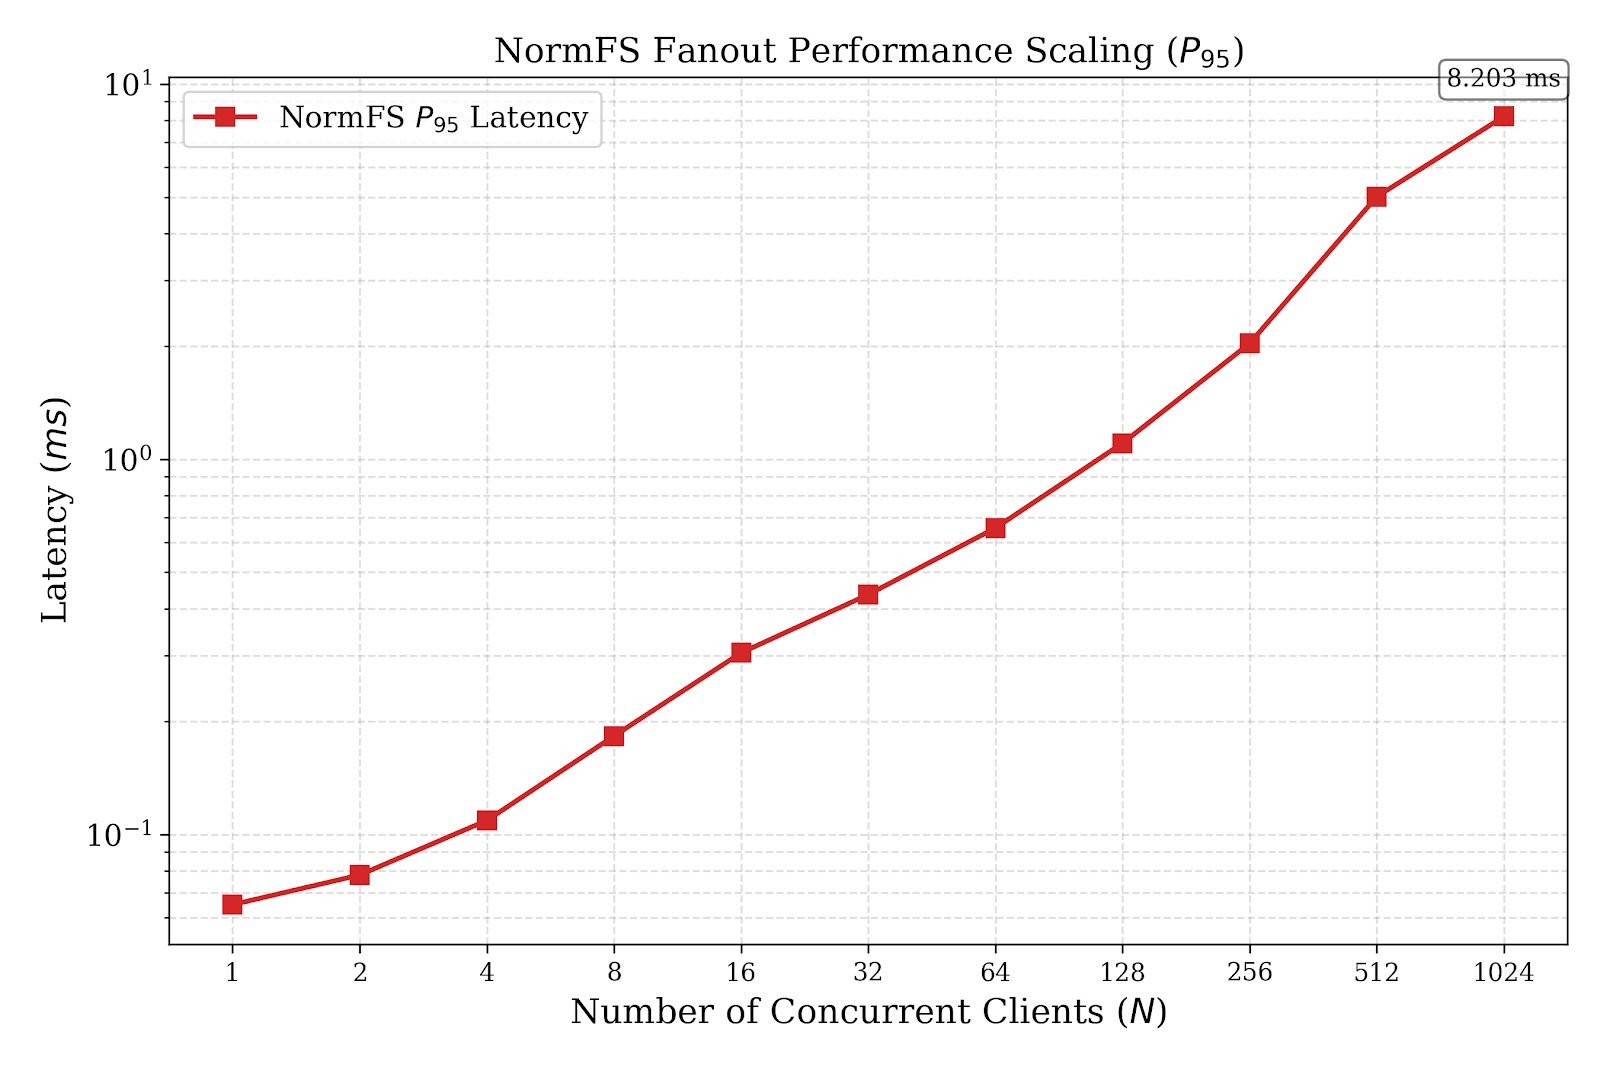
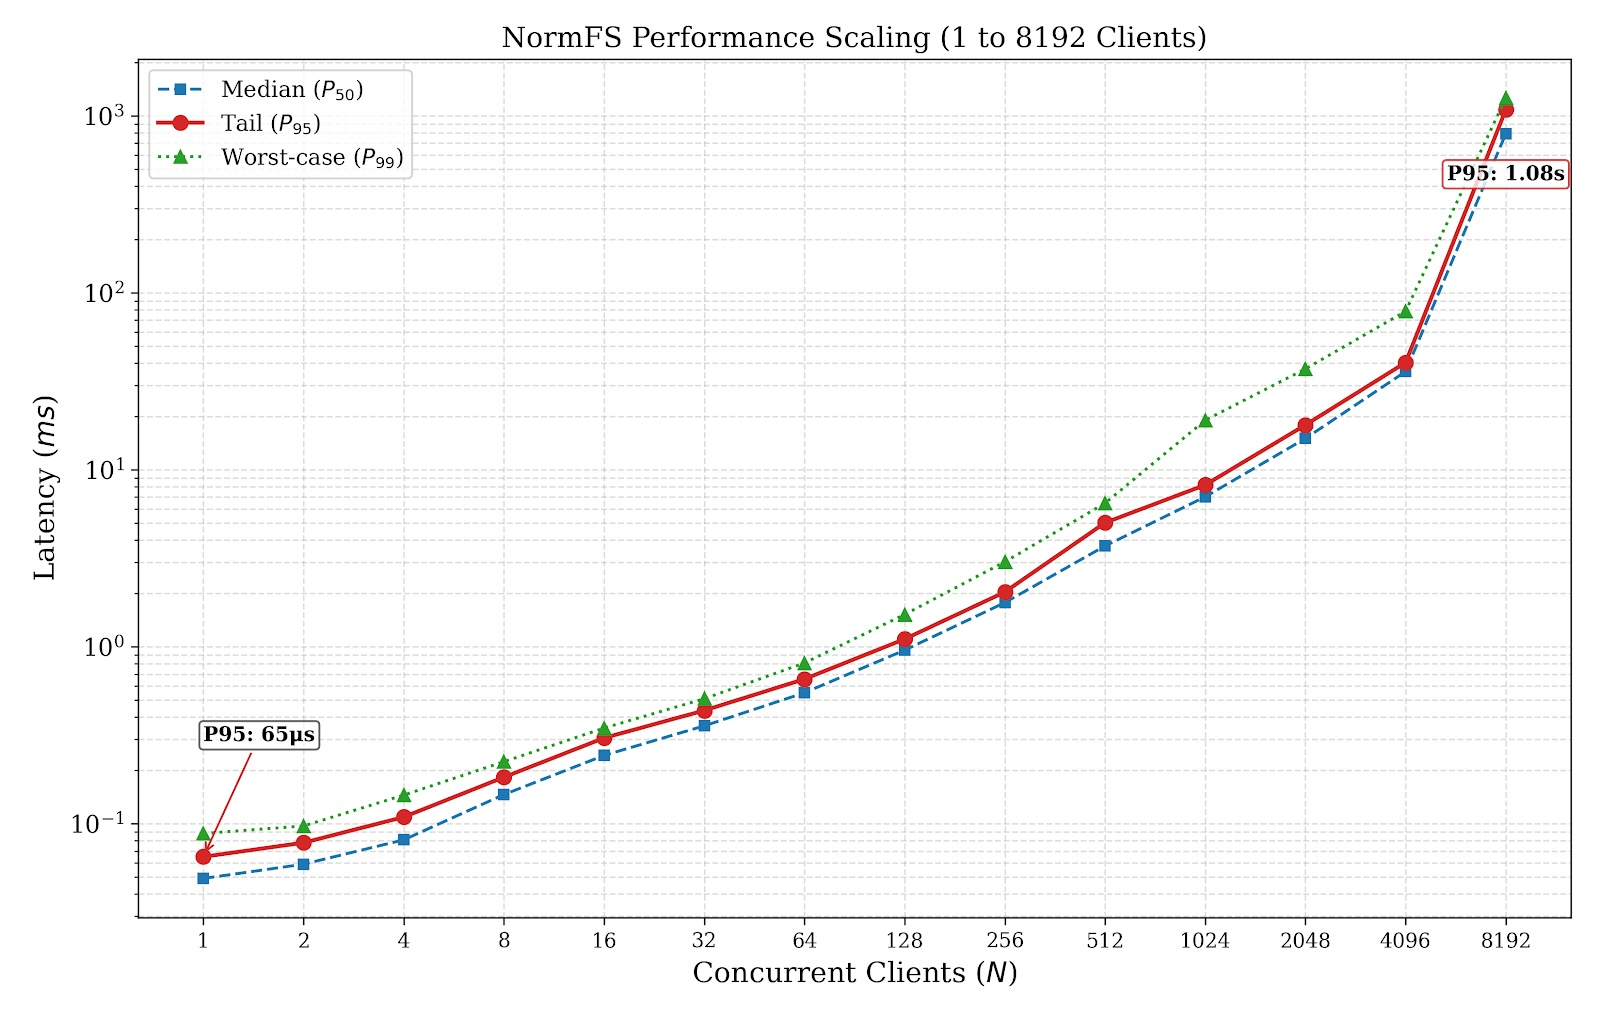
fanout scaling and benchmark results

diff --git a/normfs_go/bench/cmd/benchmark/main.go b/normfs_go/bench/cmd/benchmark/main.go
@@ -5,6 +5,7 @@ import (
 	"fmt"
 	"log/slog"
 	"os"
+	"syscall"
 
 	"github.com/norma-core/normfs/normfs_go/bench"
 )
@@ -16,6 +17,11 @@ func main() {
 	dataSize := flag.Int("size", 1024, "payload size in bytes")
 	queueID := flag.String("queue", "bench/latency", "queue ID to use")
 	flag.Parse()
+
+	if err := setupRLimits(); err != nil {
+		fmt.Printf("Failed to set up for high load: %v\n", err)
+		return
+	}
 
 	logger := slog.New(slog.NewTextHandler(os.Stdout, &slog.HandlerOptions{Level: slog.LevelWarn}))
 
@@ -33,10 +39,40 @@ func main() {
 		testData[i] = byte(i % 256)
 	}
 
+	// Set up defer to print results
+	var result bench.LatencyResult
+	defer func() {
+		if result.TotalOps > 0 {
+			fmt.Printf("\n")
+			bench.PrintLatencyResult(result)
+			fmt.Printf("\n✅ Benchmark complete!\n\n")
+		}
+	}()
+
 	// Run fanout benchmark
 	fmt.Printf("📢 Running fanout benchmark (time until all %d clients see message)...\n", *numClients)
-	result := bench.RunFanoutLatencyBenchmark(*addr, logger, *queueID, *numClients, *iterations, testData)
-	bench.PrintLatencyResult(result)
+	result = bench.RunFanoutLatencyBenchmark(*addr, logger, *queueID, *numClients, *iterations, testData)
+}
 
-	fmt.Printf("\n✅ Benchmark complete!\n\n")
+func setupRLimits() error {
+	var rLimit syscall.Rlimit
+	err := syscall.Getrlimit(syscall.RLIMIT_NOFILE, &rLimit)
+	if err != nil {
+		return err
+	} else {
+		var changed = false
+		if rLimit.Cur < 256000 {
+			rLimit.Cur = 256000
+			changed = true
+		}
+		if rLimit.Max < 256000 {
+			rLimit.Max = 256000
+			changed = true
+		}
+		if !changed {
+			return nil
+		}
+
+		return syscall.Setrlimit(syscall.RLIMIT_NOFILE, &rLimit)
+	}
 }

diff --git a/normfs_go/bench/latency.go b/normfs_go/bench/latency.go
@@ -60,6 +60,31 @@ func RunFanoutLatencyBenchmark(addr string, logger *slog.Logger, queuePath strin
 		log.Fatalf("Failed to create writer client: %v", err)
 	}
 
+	// Progress tracking every 30 seconds
+	stopProgress := make(chan struct{})
+	var completedIters atomic.Int32
+	go func() {
+		ticker := time.NewTicker(30 * time.Second)
+		defer ticker.Stop()
+		for {
+			select {
+			case <-ticker.C:
+				completed := int(completedIters.Load())
+				if completed > 0 {
+					var sum int64
+					for i := 0; i < completed; i++ {
+						sum += latencies[i]
+					}
+					avgLatency := time.Duration(sum / int64(completed))
+					log.Printf("Progress: %d/%d iterations (avg latency: %v)", completed, iterations, avgLatency)
+				}
+			case <-stopProgress:
+				return
+			}
+		}
+	}()
+	defer close(stopProgress)
+
 	for iter := 0; iter < iterations; iter++ {
 		var wg sync.WaitGroup
 		var allSeenTime atomic.Int64
@@ -103,6 +128,7 @@ func RunFanoutLatencyBenchmark(addr string, logger *slog.Logger, queuePath strin
 
 		fanoutLatency := allSeenTime.Load() - writeStart.UnixNano()
 		latencies[iter] = fanoutLatency
+		completedIters.Add(1)
 	}
 
 	totalDuration := time.Duration(0)

diff --git a/README.md b/README.md
@@ -12,21 +12,24 @@ Storage engine with automatic data lifecycle management across memory, disk, and
 
 **Fanout Latency**: Time for a message to propagate from write to all N concurrent subscribers over TCP. Measures the server's ability to efficiently distribute messages to multiple clients simultaneously - critical for real-time multi-sensor coordination in robotics and distributed systems.
 
-**TCP Fanout Benchmarks** (200k iterations, 1KB message):
+**TCP Fanout Benchmarks** (1KB message):
 
-| Clients | Total Fanout | P50 | P95 | P99 |
-|---------|--------------|-----|-----|-----|
-| 1 | 200 MB | 49µs | 65µs | 88µs |
-| 2 | 400 MB | 59µs | 78µs | 97µs |
-| 4 | 800 MB | 81µs | 109µs | 145µs |
-| 8 | 1.6 GB | 146µs | 183µs | 224µs |
-| 16 | 3.2 GB | 243µs | 305µs | 347µs |
-| 32 | 6.4 GB | 357µs | 436µs | 508µs |
-| 64 | 12.8 GB | 549µs | 656µs | 809µs |
-| 128 | 25.6 GB | 956µs | 1.1ms | 1.5ms |
-| 256 | 51.2 GB | 1.8ms | 2.0ms | 3.0ms |
-| 512 | 102 GB | 3.7ms | 5.0ms | 6.5ms |
-| 1024 | 205 GB | 7.0ms | 8.2ms | 19ms |
+| Clients | P50 | P95 | P99 |
+|---------|-----|-----|-----|
+| 1 | 49µs | 65µs | 88µs |
+| 2 | 59µs | 78µs | 97µs |
+| 4 | 81µs | 109µs | 145µs |
+| 8 | 146µs | 183µs | 224µs |
+| 16 | 243µs | 305µs | 347µs |
+| 32 | 357µs | 436µs | 508µs |
+| 64 | 549µs | 656µs | 809µs |
+| 128 | 956µs | 1.1ms | 1.5ms |
+| 256 | 1.8ms | 2.0ms | 3.0ms |
+| 512 | 3.7ms | 5.0ms | 6.5ms |
+| 1024 | 7.0ms | 8.2ms | 19ms |
+| 2048 | 15.0ms | 17.9ms | 37.1ms |
+| 4096 | 35.9ms | 40.3ms | 78.5ms |
+| 8192 | 792ms | 1.08s | 1.26s |
 
 *Benchmarked on Apple M3 Max MacBook Pro. Embedded library performance is significantly faster.*
 

diff --git a/normfs_go/bench/README.md b/normfs_go/bench/README.md
@@ -18,15 +18,11 @@ make run-bin SIZE=4096                  # Custom message size (bytes)
 make run-bin CLIENTS=10 N=50000         # Custom clients and iterations
 ```
 
-### Full Suite (200k messages, 1kb, varying clients)
-```bash
-make run-all    # Runs with 1,2,4,8,16,32,64,128,256,512,1024 clients
-```
-
 ## Requirements
 
 - Go 1.21+
-- Running NormFS server (default: `localhost:8888`)
+- Running NormFS TCP server (default: `localhost:8888`)
+- **High concurrency (1000+ clients)**: Benchmark auto-sets ulimits to 256k. May need to expand local port range to 10000-65535.
 
 ## Benchmark Types
 
@@ -70,8 +66,7 @@ go test -bench=. -benchmem
 
 ## Makefile Targets
 
-- `make run-bin` - Run single fanout latency benchmark (configurable clients/iterations/size)
-- `make run-all` - Run full suite: 200k messages, 1kb size, clients from 1 to 1024
+- `make run-bin` - Run fanout latency benchmark (configurable clients/iterations/size)
 - `make run-gobench` - Run fast Go test benchmarks
 - `make clean` - Remove built binaries
 
